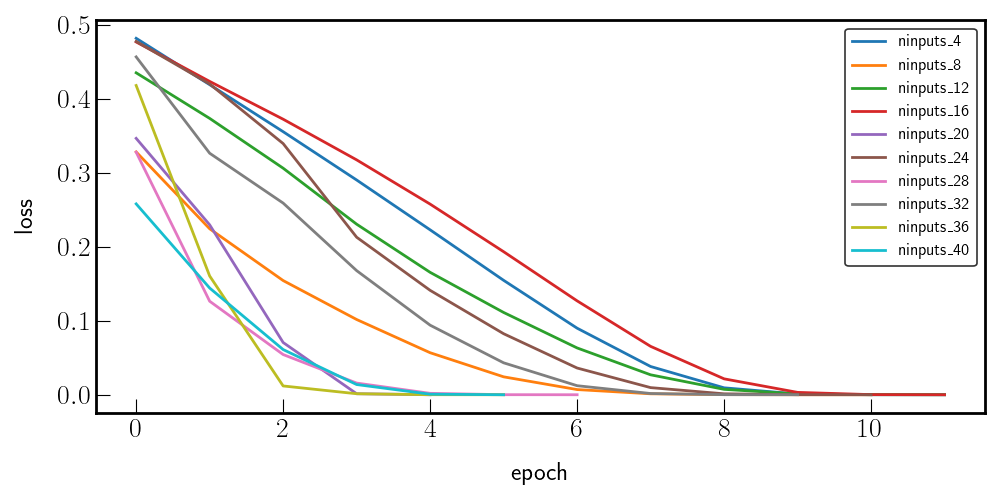
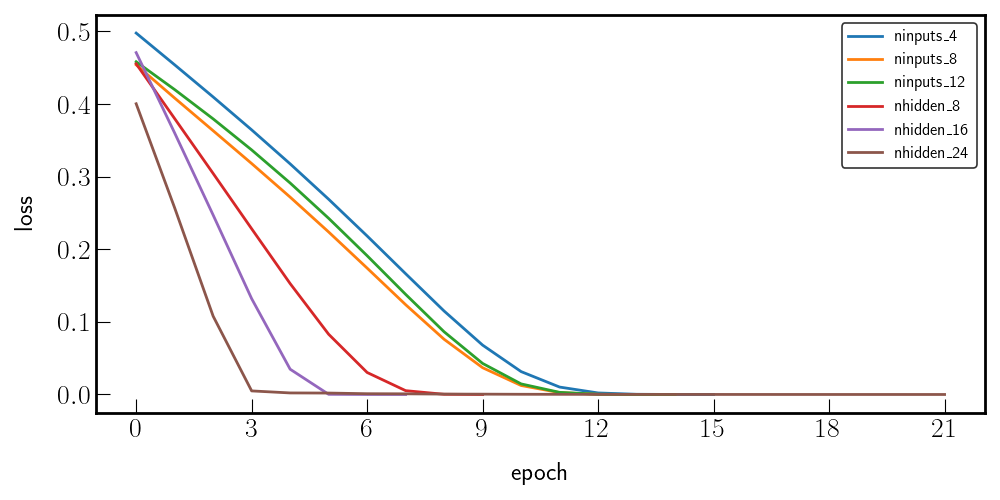
modified deepvqls nn architecture example

diff --git a/examples/example_deepvqls_nn_architecture.py b/examples/example_deepvqls_nn_architecture.py
@@ -16,7 +16,7 @@ nlayers = 1
 
 maxiter = 100
 
-nsolvers = 10
+nsolvers = 3
 
 # choose ansatz, state preparation, backend
 ansatz_ = HardwareEfficient(nqubits=nqubits, nlayers=nlayers)
@@ -46,6 +46,29 @@ for i in range(nsolvers):
 
     # loss curves
     cost_hists["ninputs_{:d}".format(ninputs)] = solver.loss
+
+
+for i in range(nsolvers):
+
+    ninputs = 4
+    nhidden = 8*(i+1)
+
+    # init
+    solver = DeepVQLS()
+
+    # set linear system
+    A0, b0 = get_random_ls(nqubits, easy_example=True)  # random spd
+    solver.set_lse(A=A0, b=b0)
+
+    # setup
+    solver.setup(optimizer=SGDTorch(), ansatz=ansatz_, stateprep=prep_, backend=backend_, epochs=maxiter, tol=1e-5,
+                 ninputs=ninputs, nhidden=nhidden)
+
+    # solve linear system
+    solver.solve()
+
+    # loss curves
+    cost_hists["nhidden_{:d}".format(nhidden)] = solver.loss
 
 plot_costs(data=cost_hists, save_png=True, title=None, fname="deep_vqls_nn_architecture_hea_nq{:d}_nl{:d}".format(
     nqubits, nlayers))
